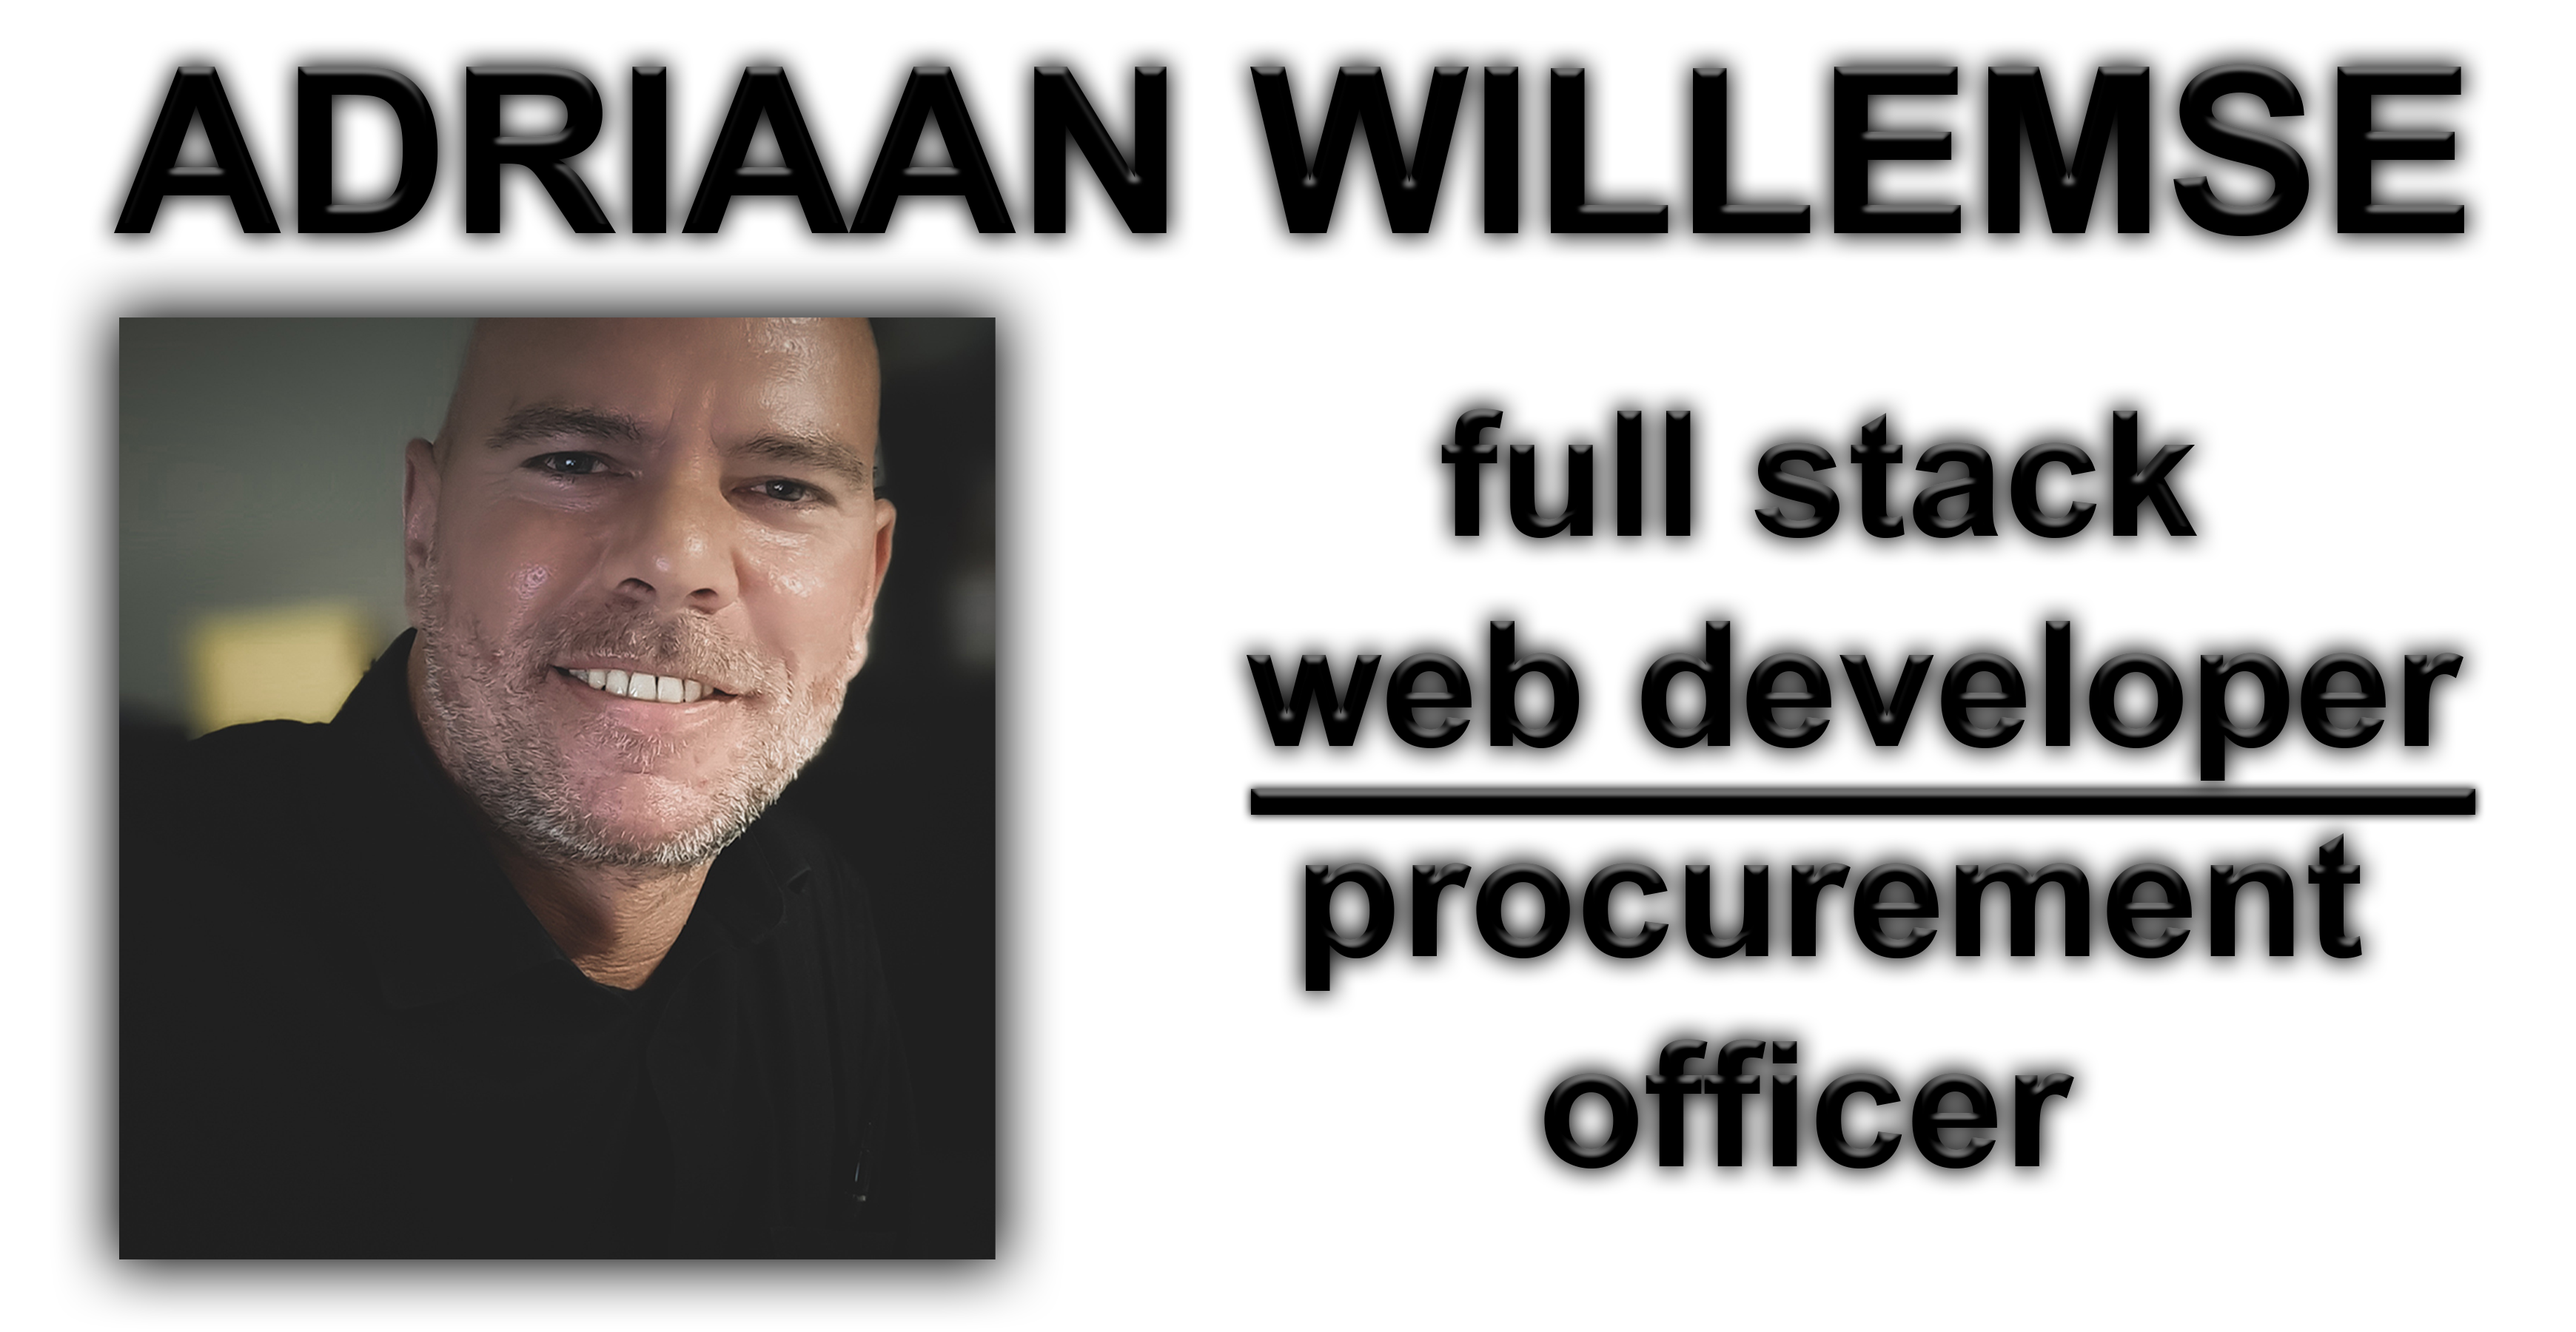
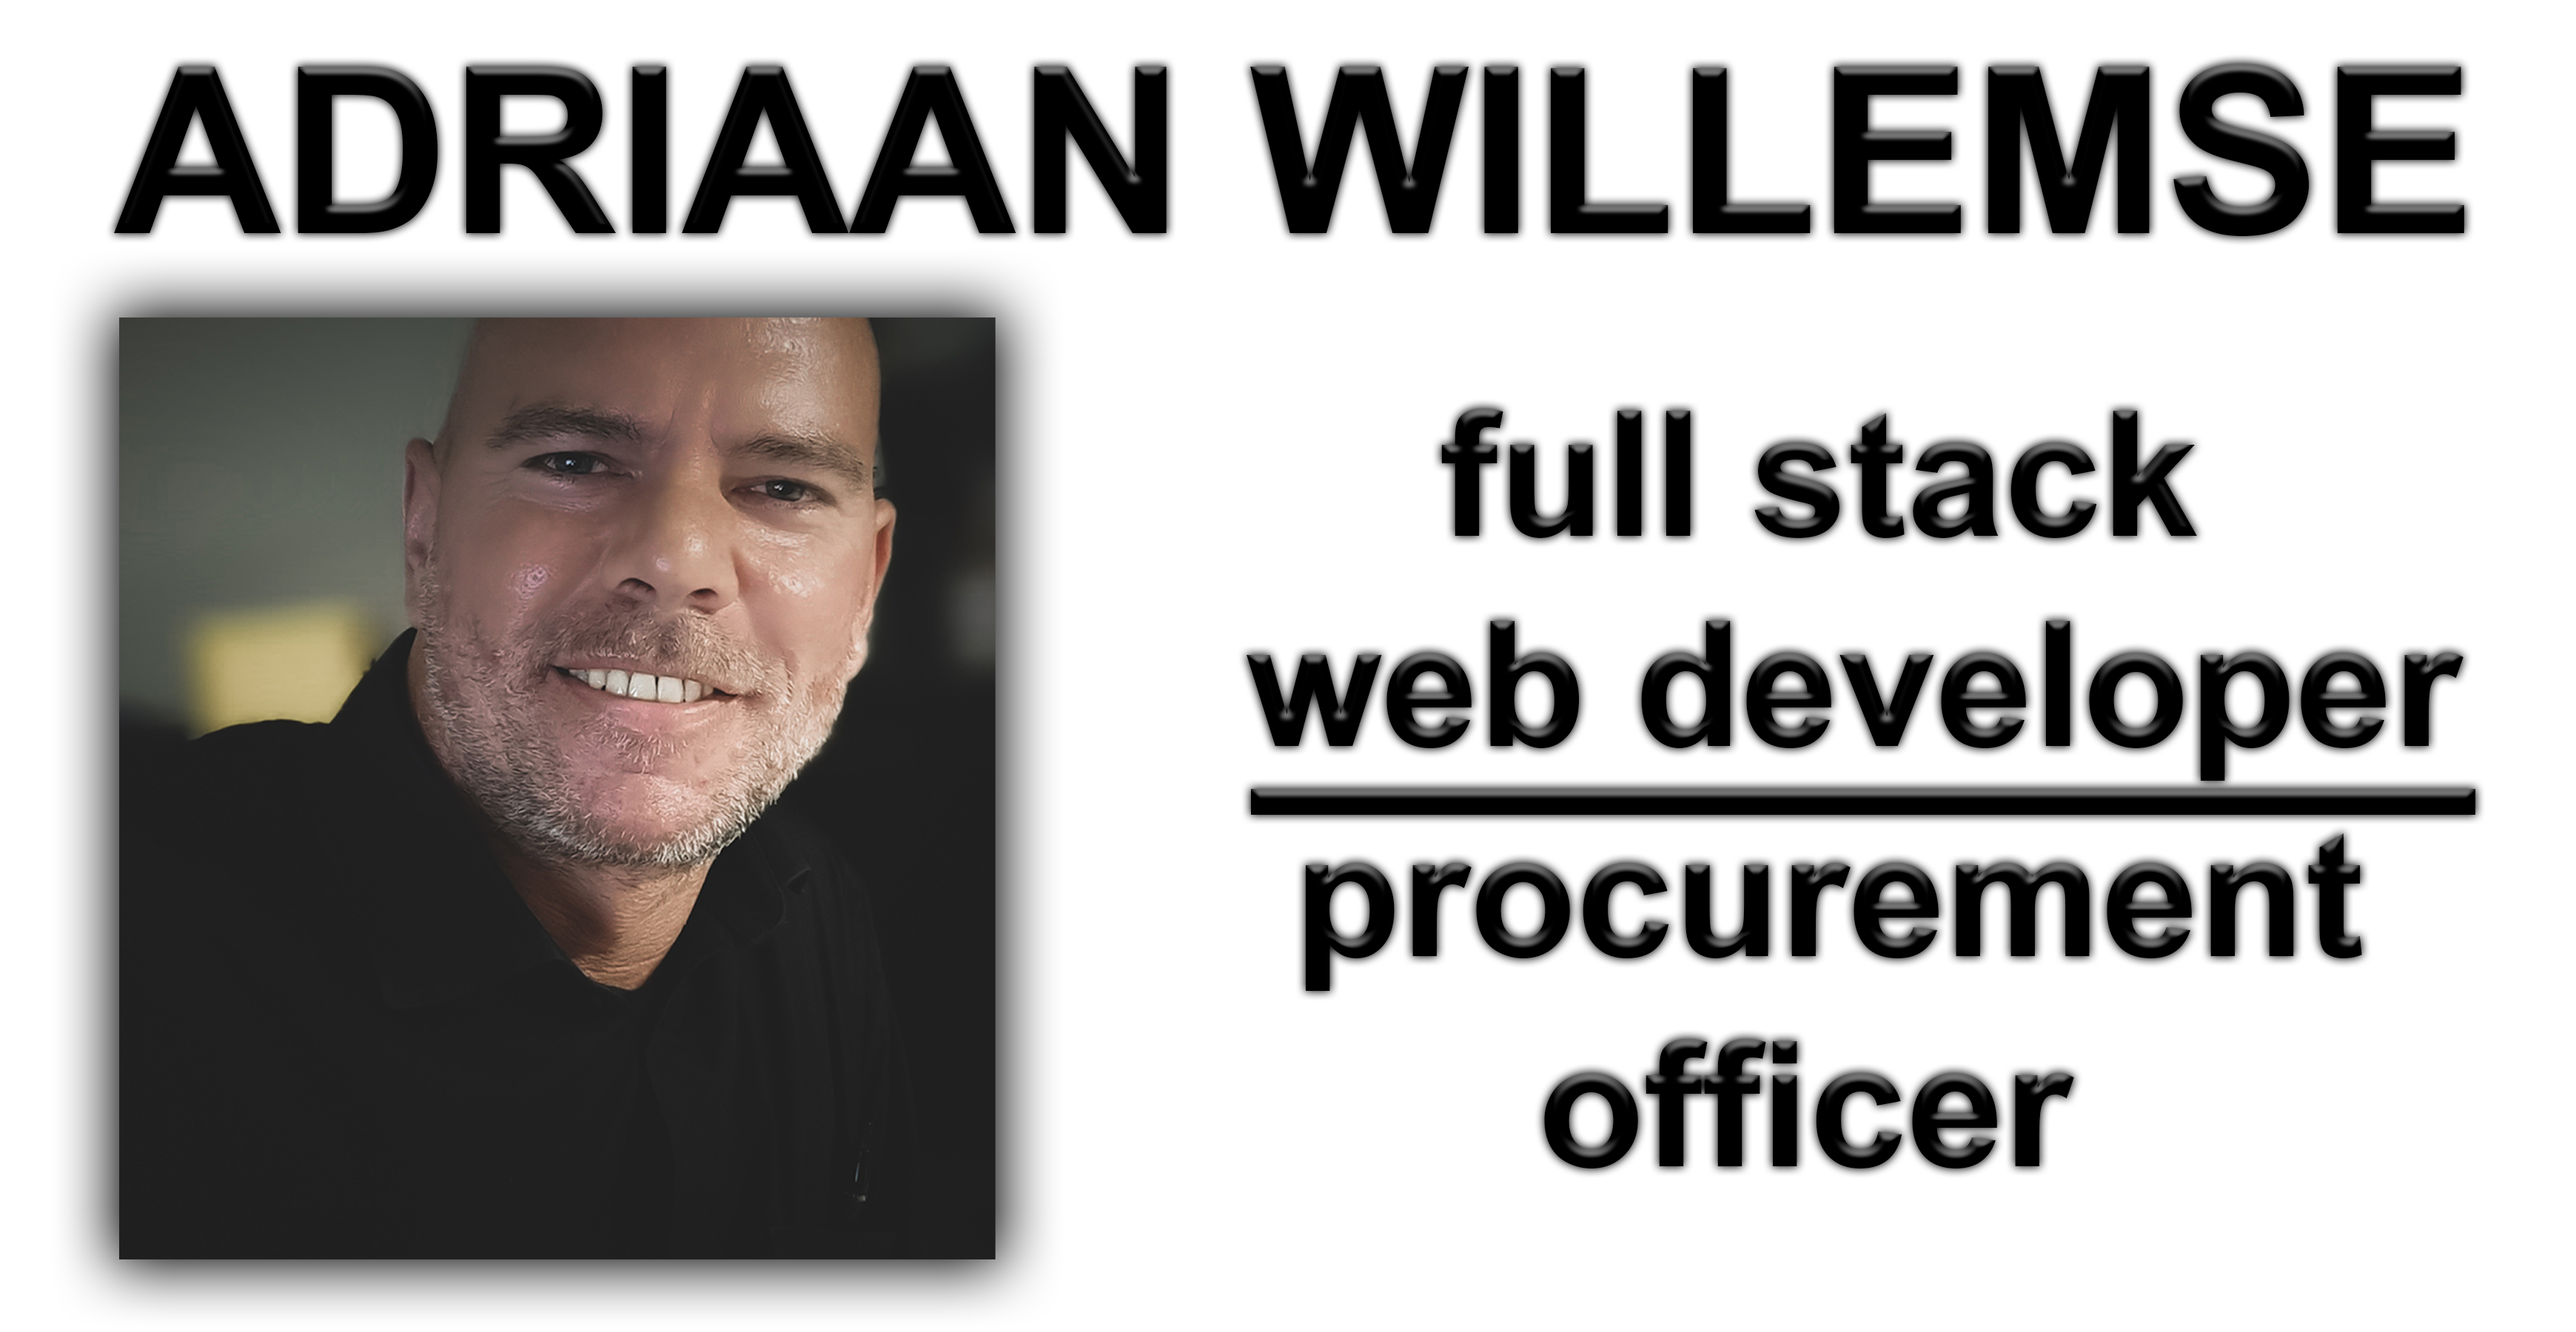
Add files via upload

Changed region(s): [[0.031, 0.0311, 0.9621, 0.1867], [0.4655, 0.28, 0.9621, 0.5911], [0.4966, 0.6222, 0.931, 0.9022]]

diff --git a/styles.css b/styles.css
@@ -505,7 +505,7 @@ hr {
     }
     
     ul {
-        font-size: 3rem;
+        font-size: 2rem;
         margin-left: 14%;
         text-shadow: 0px 0px 4px black;
     }
